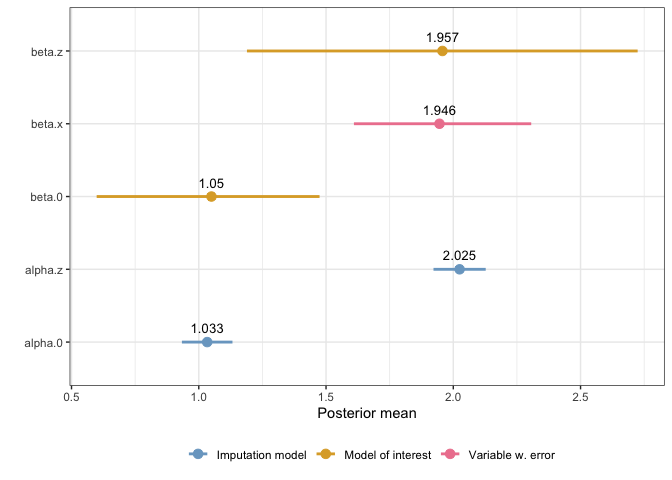
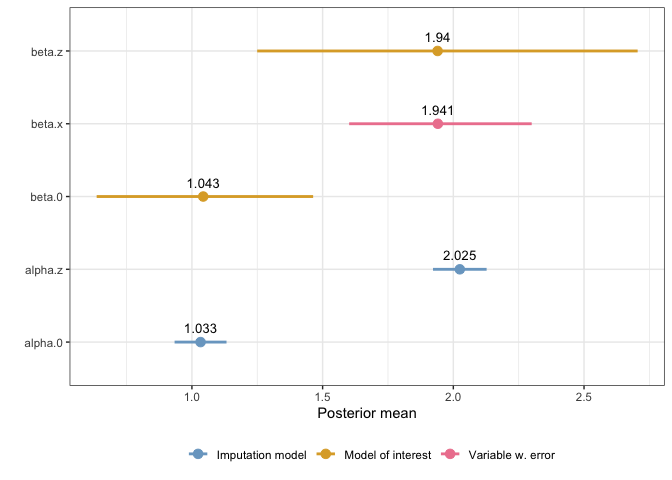
update names for priors for precisions arguments in fit_inlami

diff --git a/README.md b/README.md
@@ -115,19 +115,19 @@ In the `fit_inlami` function we also need to specify the likelihood for
 the model of interest, which in this case is Gaussian.
 
 ``` r
-simple_model <- fit_inlami(formula_moi = main_formula,
-                           formula_imp = imputation_formula,
-                           family_moi = "gaussian",
-                           data = simple_data, 
-                           error_type = c("classical", "berkson", "missing"),
-                           prior.prec.y = c(10, 9),
-                           prior.prec.u_b = c(10, 9),
-                           prior.prec.u_c = c(10, 9),
-                           prior.prec.r = c(10, 9),
-                           initial.prec.y = 1,
-                           initial.prec.u_b = 1,
-                           initial.prec.u_c = 1,
-                           initial.prec.r = 1)
+simple_model <- fit_inlami(data = simple_data, 
+                         formula_moi = main_formula, 
+                         formula_imp = imputation_formula, 
+                         family_moi = "gaussian",
+                         error_type = c("berkson", "classical"),
+                         prior.prec.moi = c(10, 9),
+                         prior.prec.berkson = c(10, 9), 
+                         prior.prec.classical = c(10, 9),
+                         prior.prec.imp = c(10, 9),
+                         initial.prec.moi = 1,
+                         initial.prec.berkson = 1,
+                         initial.prec.classical = 1,
+                         initial.prec.imp = 1)
 ```
 
 Once we have fit the model, we can view the summary:
@@ -141,33 +141,33 @@ summary(simple_model)
 #> x ~ z
 #> 
 #> Error types: 
-#> [1] "classical" "berkson"   "missing"  
+#> [1] "berkson"   "classical"
 #> 
 #> Fixed effects for model of interest: 
 #>            mean        sd 0.025quant 0.5quant 0.975quant mode          kld
-#> beta.0 1.049766 0.2307057  0.5987941 1.069235   1.474536   NA 9.231512e-07
-#> beta.z 1.957366 0.4183594  1.1893109 2.007415   2.724339   NA 4.942542e-05
+#> beta.0 1.043220 0.2124403  0.6356073 1.043788   1.463736   NA 1.630568e-07
+#> beta.z 1.939786 0.3776542  1.2496757 1.946568   2.705101   NA 8.641776e-06
 #> 
 #> Coefficient for error prone variable: 
 #>            mean        sd 0.025quant 0.5quant 0.975quant mode
-#> beta.x 1.945794 0.1770709   1.609578 1.941043   2.306161   NA
+#> beta.x 1.940827 0.1769273   1.601524 1.937251   2.299834   NA
 #> 
 #> Fixed effects for imputation model: 
 #>             mean         sd 0.025quant 0.5quant 0.975quant mode          kld
-#> alpha.0 1.033068 0.05062367  0.9337341 1.033078   1.132343   NA 4.072216e-12
-#> alpha.z 2.024735 0.05228890  1.9222275 2.024712   2.127369   NA 1.835395e-11
+#> alpha.0 1.033071 0.05062282  0.9337409 1.033080   1.132348   NA 3.379187e-12
+#> alpha.z 2.024728 0.05228673  1.9222192 2.024707   2.127353   NA 1.494428e-11
 #> 
 #> Model hyperparameters (apart from beta.x): 
 #>                                                 mean        sd 0.025quant
-#> Precision for the Gaussian observations    1.1385229 0.3706237  0.5583780
-#> Precision for the Gaussian observations[2] 1.0785718 0.3007463  0.6287398
-#> Precision for the Gaussian observations[3] 0.9396607 0.1040588  0.7482838
-#> Precision for the Gaussian observations[4] 0.9571751 0.1074529  0.7683211
+#> Precision for the Gaussian observations    1.1348399 0.3469250  0.5811453
+#> Precision for the Gaussian observations[2] 1.0492040 0.2794852  0.6201420
+#> Precision for the Gaussian observations[3] 0.9400527 0.1102513  0.7362982
+#> Precision for the Gaussian observations[4] 0.9599192 0.1204817  0.7501751
 #>                                             0.5quant 0.975quant mode
-#> Precision for the Gaussian observations    1.0903383   2.002451   NA
-#> Precision for the Gaussian observations[2] 1.0308621   1.801556   NA
-#> Precision for the Gaussian observations[3] 0.9352054   1.157525   NA
-#> Precision for the Gaussian observations[4] 0.9491929   1.190726   NA
+#> Precision for the Gaussian observations    1.0930371   1.934834   NA
+#> Precision for the Gaussian observations[2] 1.0085920   1.714990   NA
+#> Precision for the Gaussian observations[3] 0.9355375   1.170696   NA
+#> Precision for the Gaussian observations[4] 0.9502789   1.224720   NA
 ```
 
 And we can use the default plot function to see a plot of the fixed
